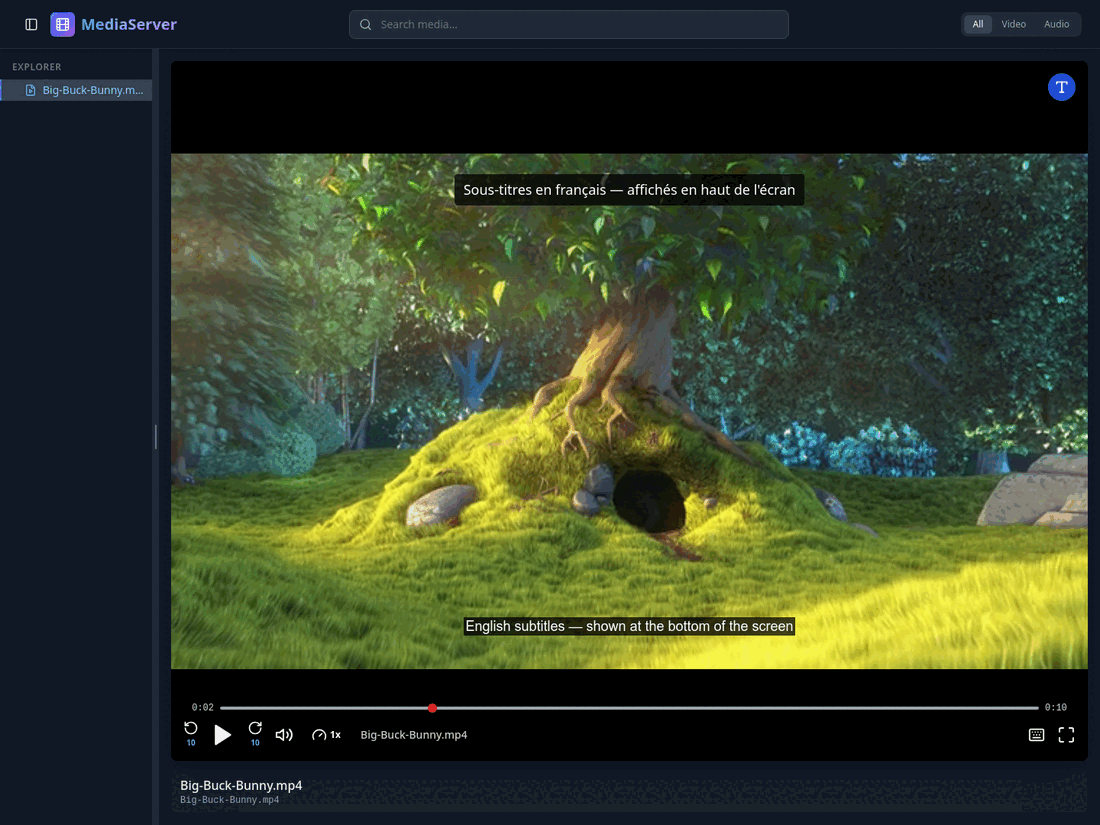
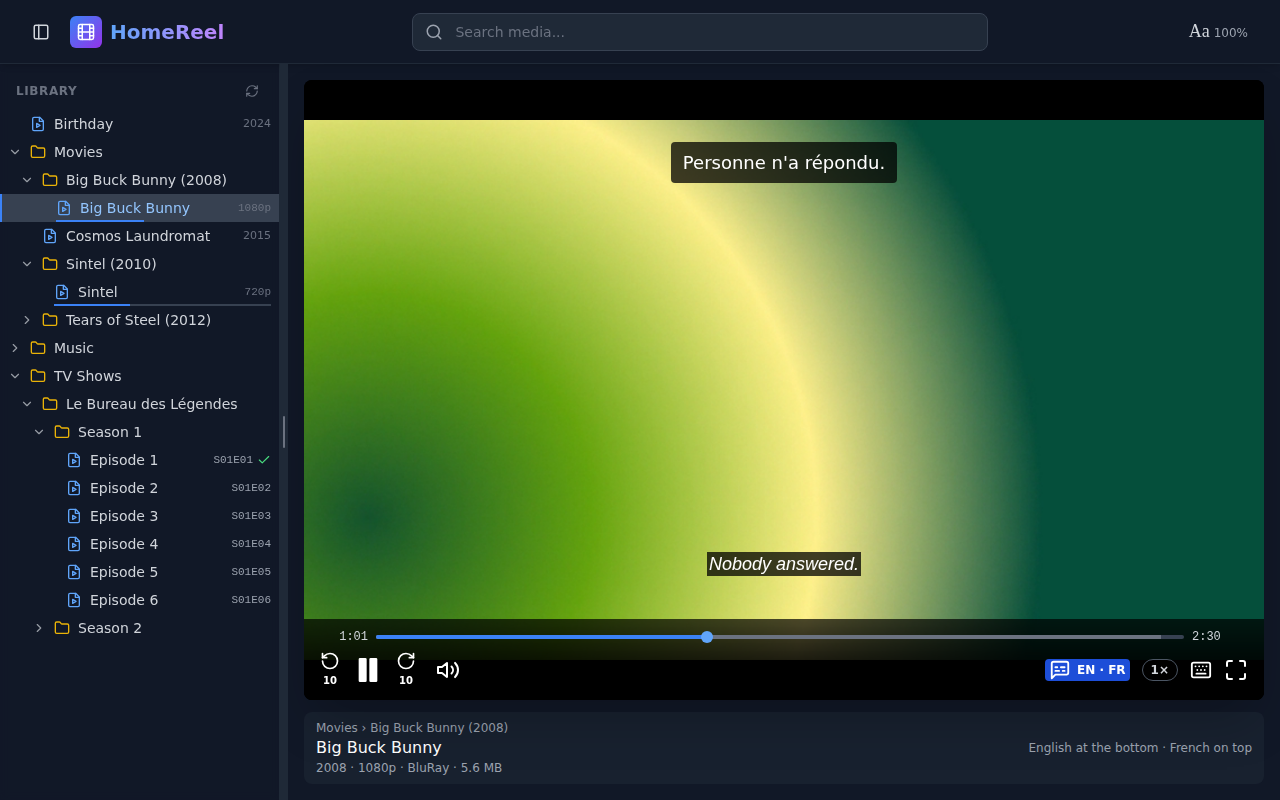
README: what HomeReel does now, with new screenshots
The feature list, the TV and phone sections, the subtitle panel (Top and
Bottom cards, Swap, Find more online, remembered languages, c and t), the
project layout and CI. The screenshots are retaken with the driver - Home,
two subtitles at once, the panel, and a phone - against a demo library of
generated clips, since the real film could not be fetched here; the
caption says so.

The driver takes RUN_MP_MEDIA, a library of your own to drive the app
against instead of the generated fixtures.

diff --git a/README.md b/README.md
@@ -6,23 +6,33 @@ accounts, no cloud, no uploading anything.
 
 Point it at a folder, run one command, open the printed link on your TV.
 
-- Browse your media folder as a tree, or search it
-- Video and audio playback with keyboard controls
-- Subtitles, including `.srt` files (converted on the fly) and dual top/bottom tracks
+- A Home screen with what you were watching, the next episode, and what is new
+- Your folders as a library with readable names (*Episode 2 · S01E02*, not
+  `Le.Bureau.des.Legendes.S01E02.1080p.mp4`), and a search you can use from the keyboard
+- Video and audio playback with keyboard and remote controls, and a Now playing
+  view for music
+- Subtitles, including `.srt` files (converted on the fly), two at once — top and
+  bottom — and your languages remembered
 - Optionally download missing subtitles by language — see [Subtitles](#subtitles)
+- Remembers where you stopped and what you finished, and carries on into the next
+  episode, or the next season
+- Works on a phone too, with lock-screen controls and Add to Home Screen
+- Large text for reading from the sofa
 - Seeking works properly on large files, via HTTP range requests
 - Built for old smart-TV browsers, which are usually years behind desktop Chrome
 
 ## Screenshots
 
-| Library | Two subtitles at once |
+| Home | Two subtitles at once |
 |---|---|
-| ![File browser](docs/images/library.png) | ![French subtitle on top, English on the bottom](docs/images/dual-subtitles-demo.png) |
+| ![Home: Continue watching, Recently added, and the library](docs/images/home.png) | ![French subtitle on top, English on the bottom](docs/images/dual-subtitles-demo.png) |
 
-The right-hand shot is *Big Buck Bunny* (Blender Foundation, CC BY 3.0) with a
-French subtitle pinned to the top and an English one to the bottom — the
-player can show two languages at once, one in each slot. See
+On the right, a French subtitle pinned to the top and an English one to the
+bottom — the player can show two languages at once, one in each slot. See
 [Subtitles](#subtitles) for the panel that sets this up.
+
+The screenshots were taken with the project's test driver against a demo library
+of generated clips, named after the Blender open movies.
 
 ## What it does not do
 
@@ -107,6 +117,34 @@ Leave the terminal running; closing it stops the server.
 
 If the page will not load, see [Troubleshooting](#troubleshooting).
 
+Once it is open:
+
+- **Home** shows what you were in the middle of, the next episode of what you
+  finished, what was added lately, and your top-level folders. The **HomeReel**
+  name at the top left always brings you back to it.
+- **Aa** at the top right makes all the text bigger — 125% or 150% — for reading
+  from across the room. The TV remembers it; your laptop does not change.
+- The remote's **play/pause** button works, and so does its pointer: everything is
+  a button you can point at. With a keyboard, `?` (or the keyboard button in the
+  player) lists every shortcut.
+- A file the TV cannot play says why and what would fix it, with buttons to try
+  again or skip to the next one. Files whose names say **HEVC** or **MKV** — the
+  two things TVs most often refuse — carry an amber mark in the library.
+
+## On a phone
+
+<img src="docs/images/phone.png" width="260" align="right" alt="HomeReel on a phone: the episode playing, its details, and the next episodes">
+
+Open the same address in your phone's browser. The controls sit on the picture,
+the library is behind the button at the top left, and under the film you get its
+details, the next episodes and whatever else you were watching.
+
+Use your browser's **Add to Home Screen** and HomeReel opens full screen, like an
+app. While music plays, the lock screen shows the track and album and has play,
+pause, next and previous.
+
+<br clear="right">
+
 ## Subtitles
 
 Two separate things here, and only the second one needs any setup.
@@ -114,8 +152,8 @@ Two separate things here, and only the second one needs any setup.
 ![The subtitle panel: top/bottom source, sync, and the download tools](docs/images/subtitle-panel.png)
 
 **Subtitle files already sitting next to your videos** just work. Any `.srt` or
-`.vtt` in the same folder is listed in the player's subtitle menus, and one
-matching the video's name is picked automatically. `.srt` is converted on the
+`.vtt` in the same folder is listed in the player's subtitle menus, and one in
+your language — or else one named like the video — is picked automatically. `.srt` is converted on the
 fly. Nothing to configure, no account, no internet.
 
 A `Subs/` folder is read as well — the layout most downloads arrive in:
@@ -139,21 +177,28 @@ API key. Without one the menus still list your local files exactly as above —
 only the "search online" part is missing. Nobody should have to register for
 anything to watch a file off their own disk.
 
-With a key, the player's subtitle panel gains a **Get subtitles** section: pick a
+With a key, the player's subtitle panel gains a **Find more online** section: pick a
 language, press **Download**, and the best match is fetched and loaded. Press
-**More** instead to see the candidates first and choose one yourself.
+**Browse** instead to see the candidates first and choose one yourself.
 
 Downloading and displaying are two separate steps, which is why there are two
 sets of menus:
 
 | Menu | What it does |
 |---|---|
-| **Get subtitles** | Fetches a subtitle file into the video's folder. |
-| **Top Source** / **Bottom Source** | Chooses which file to show, and where. Lists the subtitles belonging to the video you are playing — what you downloaded and what was already there. In a season folder that means this episode's, not the whole series'. |
+| **Get subtitles** (under Find more online) | Fetches a subtitle file into the video's folder. |
+| **Top** / **Bottom** | Chooses which file to show, and where. Lists the subtitles belonging to the video you are playing — what you downloaded and what was already there, each saying what it is (*English · named like the film*, *French · Subs/French.srt*). In a season folder that means this episode's, not the whole series'. |
 
 So you can hold several subtitles for one film and switch between them without
 downloading anything again, or put two languages on screen at once — one at the
-top, one at the bottom.
+top, one at the bottom. **Swap top and bottom** trades them over, and each slot has
+its own size and sync.
+
+The languages you pick are remembered for every film, not just this one: open a
+new episode and the bottom slot starts in your language — and the top one in
+yours, if you watch with two. A choice you made for a particular film still wins.
+On a keyboard, `c` switches the bottom subtitle off and back on, and `t` the top
+one.
 
 **If the first one is a poor match, just press Download again.** It skips past
 what you already have and takes the next-best candidate, so you never pay twice
@@ -177,15 +222,15 @@ first — and deleting one you did not like is enough to make the app forget it.
 
 ### When a subtitle runs early or late
 
-Under each **Source** menu is a **Sync** row:
+Under each slot's menu is a **Sync** row:
 
 ```
-Sync   ◀    +1.5s    ▶
+Sync   ‹ Earlier    +1.5s    Later ›
 ```
 
-`◀` shows the subtitles earlier, `▶` later, half a second at a time. The middle
-button is the current shift and resets it. On a keyboard, `g` and `h` do the same
-in finer 0.1s steps.
+**Earlier** shows the subtitles earlier, **Later** later, half a second at a time.
+The middle button is the current shift and resets it. On a keyboard, `g` and `h` do
+the same in finer 0.1s steps.
 
 Each subtitle has its own shift, and it is **remembered** — come back to the same
 film tomorrow and it is still lined up. Deleting the subtitle or resetting it to
@@ -317,8 +362,8 @@ https://sub-scene.com/subtitle/3358444
                                ^^^^^^^ this is the ID
 ```
 
-In the player's subtitle panel, paste the ID into the **Subscene ID** box (see
-the screenshot above). From the fifth character on, the app asks the site
+In the player's subtitle panel, under **Find more online**, paste the ID into the
+**Subscene ID** box (see the screenshot above). From the fifth character on, the app asks the site
 whether that ID is real, and tells you what it found:
 
 | The box is | It means |
@@ -404,6 +449,9 @@ npm test            # both test suites (needs Node 20.19+ or 22.12+)
 npm run serve       # run the server alone, against an existing build
 ```
 
+GitHub Actions runs the tests, the type check and the build on every push
+(`.github/workflows/ci.yml`).
+
 ## Configuration
 
 All settings live in `.env` (copied from `.env.example`, and git-ignored so
@@ -434,15 +482,18 @@ homereel/
 ├── 1_run                 start the app
 ├── x_stop                stop it, either runtime
 ├── web/                  React + TypeScript interface
+│   ├── public/           icons and the web app manifest
 │   ├── src/
-│   │   ├── components/   FileTree, Header, MediaPlayer, ErrorBoundary
+│   │   ├── components/   Home, FileTree, Header, SearchBox, MediaPlayer, ...
+│   │   │   └── player/   the player's controls, subtitle panel and hooks
 │   │   ├── services/     API client
-│   │   ├── utils/        subtitle parsing, time formatting
+│   │   ├── utils/        names, subtitles, what the app remembers
 │   │   └── main.tsx      entry point
 │   ├── index.html
 │   └── vite.config.ts    build + dev proxy config
 ├── server/               Express API and static file server
-│   ├── index.js          file scanning, search, range streaming
+│   ├── index.js          the API, range streaming, the request log
+│   ├── library.js        file scanning, what each name says, search
 │   ├── mediaPath.js      the path-containment guard - see Security
 │   └── subtitles/        search, download, and archive handling
 ├── docker/               Container build
@@ -475,9 +526,14 @@ On macOS, System Settings → Network → Firewall → Options, and allow incomi
 connections for Node.
 
 **A file shows in the list but will not play.**
-Your TV's browser cannot decode it. See [What it does not do](#what-it-does-not-do).
-Test the same file in your desktop browser: if it plays there but not on the TV,
-it is a codec limitation on the TV, not a bug here.
+Your TV's browser cannot decode it, and the player says what would fix it. See
+[What it does not do](#what-it-does-not-do). Test the same file in your desktop
+browser: if it plays there but not on the TV, it is a codec limitation on the TV,
+not a bug here.
+
+**A file I just copied in does not show up.**
+The library is read again at most once a minute, so a new file can take that long
+to appear. Press the rescan button beside **Library** to look straight away.
 
 **`MEDIA_DIR points at a folder that does not exist`.**
 Re-run `./0_setup`, or edit `.env` directly. The path must be absolute

diff --git a/.claude/skills/run-media-player/SKILL.md b/.claude/skills/run-media-player/SKILL.md
@@ -29,6 +29,10 @@ export RUN_MP_FFMPEG=/path/to/ffmpeg               # default: ffmpeg on PATH
 The fixtures are VP8/Vorbis WebM (under their `.mp4` names), which every Chromium
 plays, so a build without H.264 works as well as Playwright's own.
 
+`RUN_MP_MEDIA=/path/to/library` drives the app against a library of your own
+instead (copied fresh each run, never written to) - the README screenshots were
+taken that way, from a demo library of generated clips.
+
 ## Setup
 
 ```bash
